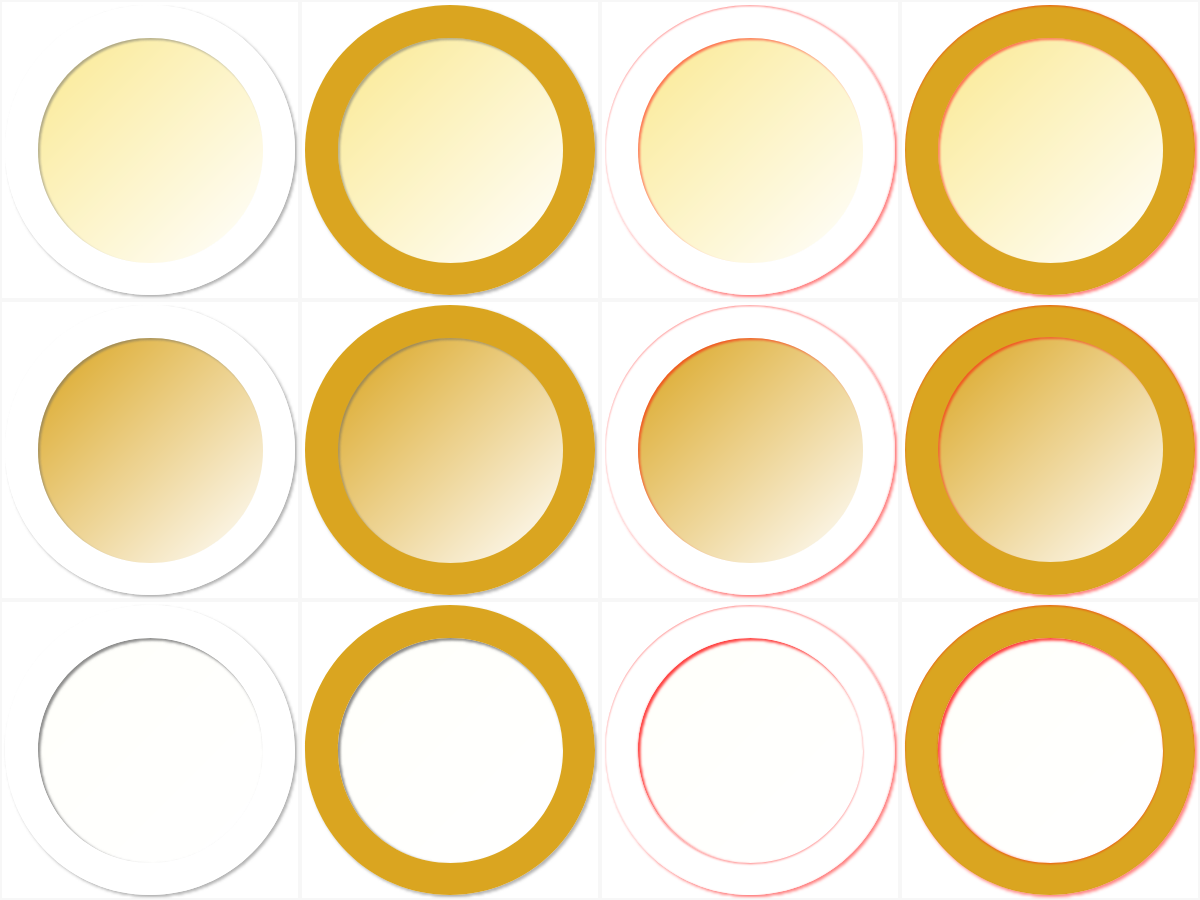
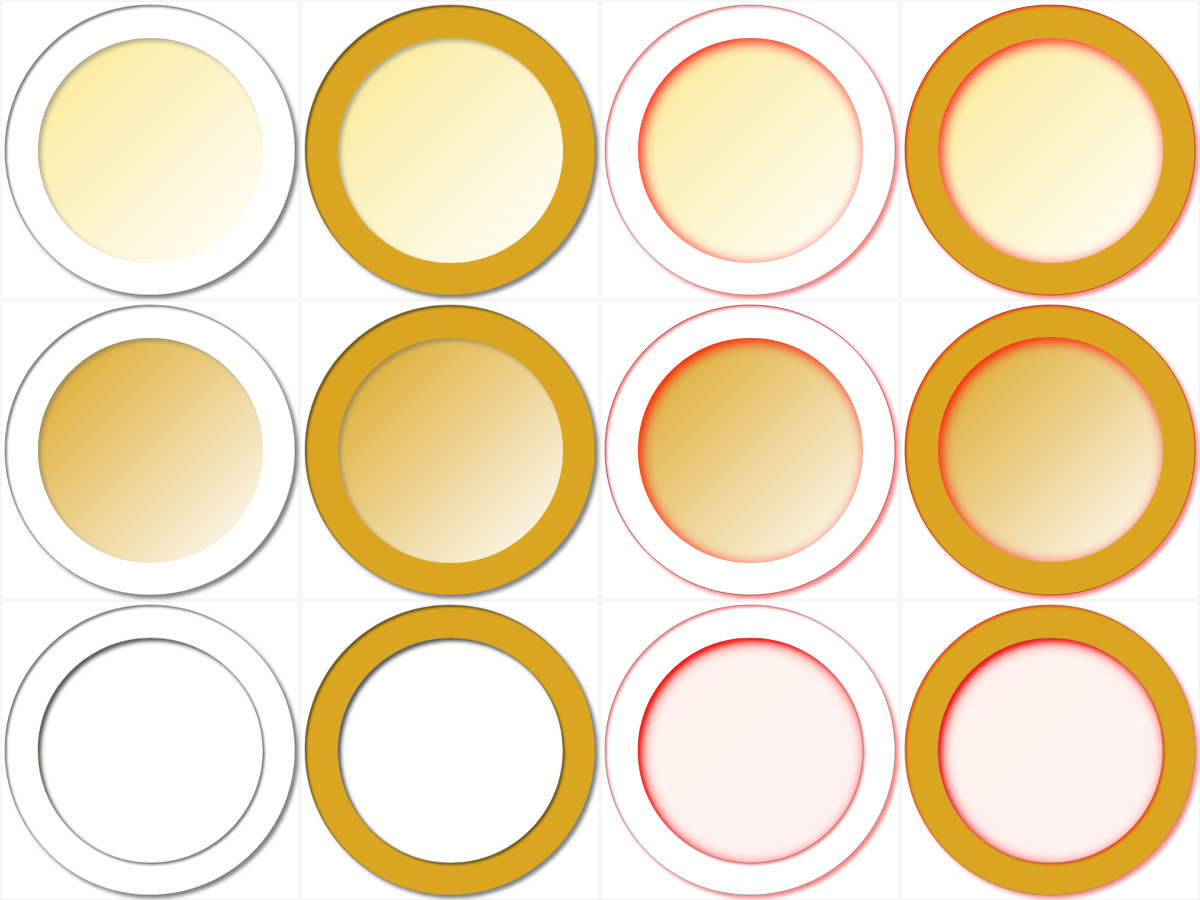
Adding hint system for the first two choices

diff --git a/wwwroot/css/app.css b/wwwroot/css/app.css
@@ -278,12 +278,36 @@ select.selections-status-3 {
     background-position-x: calc(var(--circle-size) * -1);
     background-position-y: calc(var(--circle-size) * -1);
 }
+select.selections-status-4 {
+    background-position-x: calc(var(--circle-size) * -2);
+    background-position-y: calc(var(--circle-size) * 0);
+}
+select.selections-status-5 {
+    background-position-x: calc(var(--circle-size) * -2);
+    background-position-y: calc(var(--circle-size) * -1);
+}
+select.selections-status-6 {
+    background-position-x: calc(var(--circle-size) * -3);
+    background-position-y: calc(var(--circle-size) * 0);
+}
+select.selections-status-3 {
+    background-position-x: calc(var(--circle-size) * -3);
+    background-position-y: calc(var(--circle-size) * -1);
+}
 select.selections-status-0:hover, select.selections-status-1:hover {
     background-position-x: calc(var(--circle-size) * 0);
     background-position-y: calc(var(--circle-size) * -2);
 }
+select.selections-status-4:hover, select.selections-status-5:hover {
+    background-position-x: calc(var(--circle-size) * -2);
+    background-position-y: calc(var(--circle-size) * -2);
+}
 select.selections-status-2:hover, select.selections-status-3:hover {
     background-position-x: calc(var(--circle-size) * -1);
+    background-position-y: calc(var(--circle-size) * -2);
+}
+select.selections-status-6:hover, select.selections-status-7:hover {
+    background-position-x: calc(var(--circle-size) * -3);
     background-position-y: calc(var(--circle-size) * -2);
 }
 option.selections {

diff --git a/Pages/InputGrid.cs b/Pages/InputGrid.cs
@@ -16,9 +16,11 @@ namespace MiniCactpot.Pages
         Selection[] Column;
         Selection[] Diagonal;
         int[,] GridStatus;
+        List<(int, int)> Hint;
         const int NORMAL = 0;
         const int SUGGESTED = 1;
         const int ACTIVE = 2;
+        const int HINTED = 4;
 
         public InputGrid()
         {
@@ -75,6 +77,7 @@ namespace MiniCactpot.Pages
             };
             FindUsed();
             CalculateAllPayouts();
+            GetHint();
         }
 
         void Selected(int x, int y, string value)
@@ -83,6 +86,7 @@ namespace MiniCactpot.Pages
             if (!parsed) Grid[x, y] = 0;
             FindUsed();
             CalculateAllPayouts();
+            GetHint();
         }
 
         void FindUsed()
@@ -214,6 +218,37 @@ namespace MiniCactpot.Pages
             return sums;
         }
 
+        int GetStatus(int x, int y) {
+            if (Hint.Contains((x, y))) return (GridStatus[x, y] + HINTED);
+            return GridStatus[x, y];
+        }
+
+        void GetHint() {
+            Hint = new List<(int, int)>();
+            if (AvailableNumbers.Count < 9 && AvailableNumbers.Count > 5) {
+                if (Grid[1, 1] == 0) Hint.Add((1, 1));
+                else {
+                    if (AvailableNumbers.Count > 6 && Grid[0, 0] == 0 && Grid[2, 2] == 0 && Grid[2, 0] == 0 && Grid[0, 2] == 0) {
+                        if (Grid[1, 0] == 0 && Grid[0, 1] == 0) Hint.Add((0, 0)); // top left
+                        if (Grid[1, 0] == 0 && Grid[2, 1] == 0) Hint.Add((2, 0)); // top right
+                        if (Grid[1, 2] == 0 && Grid[0, 1] == 0) Hint.Add((0, 2)); // bottom left
+                        if (Grid[1, 2] == 0 && Grid[2, 1] == 0) Hint.Add((2, 2)); // bottom right
+                    }
+                    else if (AvailableNumbers.Count > 6 && Grid[1, 0] == 0 && Grid[1, 2] == 0 && Grid[0, 1] == 0 && Grid[2, 1] == 0)
+                    {
+                        if (Grid[0, 0] == 0 && Grid[2, 0] == 0) Hint.Add((1, 0)); // top
+                        if (Grid[0, 2] == 0 && Grid[2, 2] == 0) Hint.Add((1, 2)); // bottom
+                        if (Grid[0, 0] == 0 && Grid[0, 2] == 0) Hint.Add((0, 1)); // left
+                        if (Grid[2, 0] == 0 && Grid[2, 2] == 0) Hint.Add((2, 1)); // right
+                    }
+                    if (AvailableNumbers.Count == 6)
+                    {
+                        // What is the best here
+                    }
+                }
+            }
+        }
+
         class Selection 
         {
             public InputGrid InputGrid;
@@ -283,7 +318,7 @@ namespace MiniCactpot.Pages
                 SecondStatus |= status;
                 ThirdStatus |= status;
             }
-            public int GetStatus()
+            public int GetStatus(int x = -1, int y = -1)
             {
                 int status = InputGrid.NORMAL;
                 if (Suggested) status += InputGrid.SUGGESTED;
